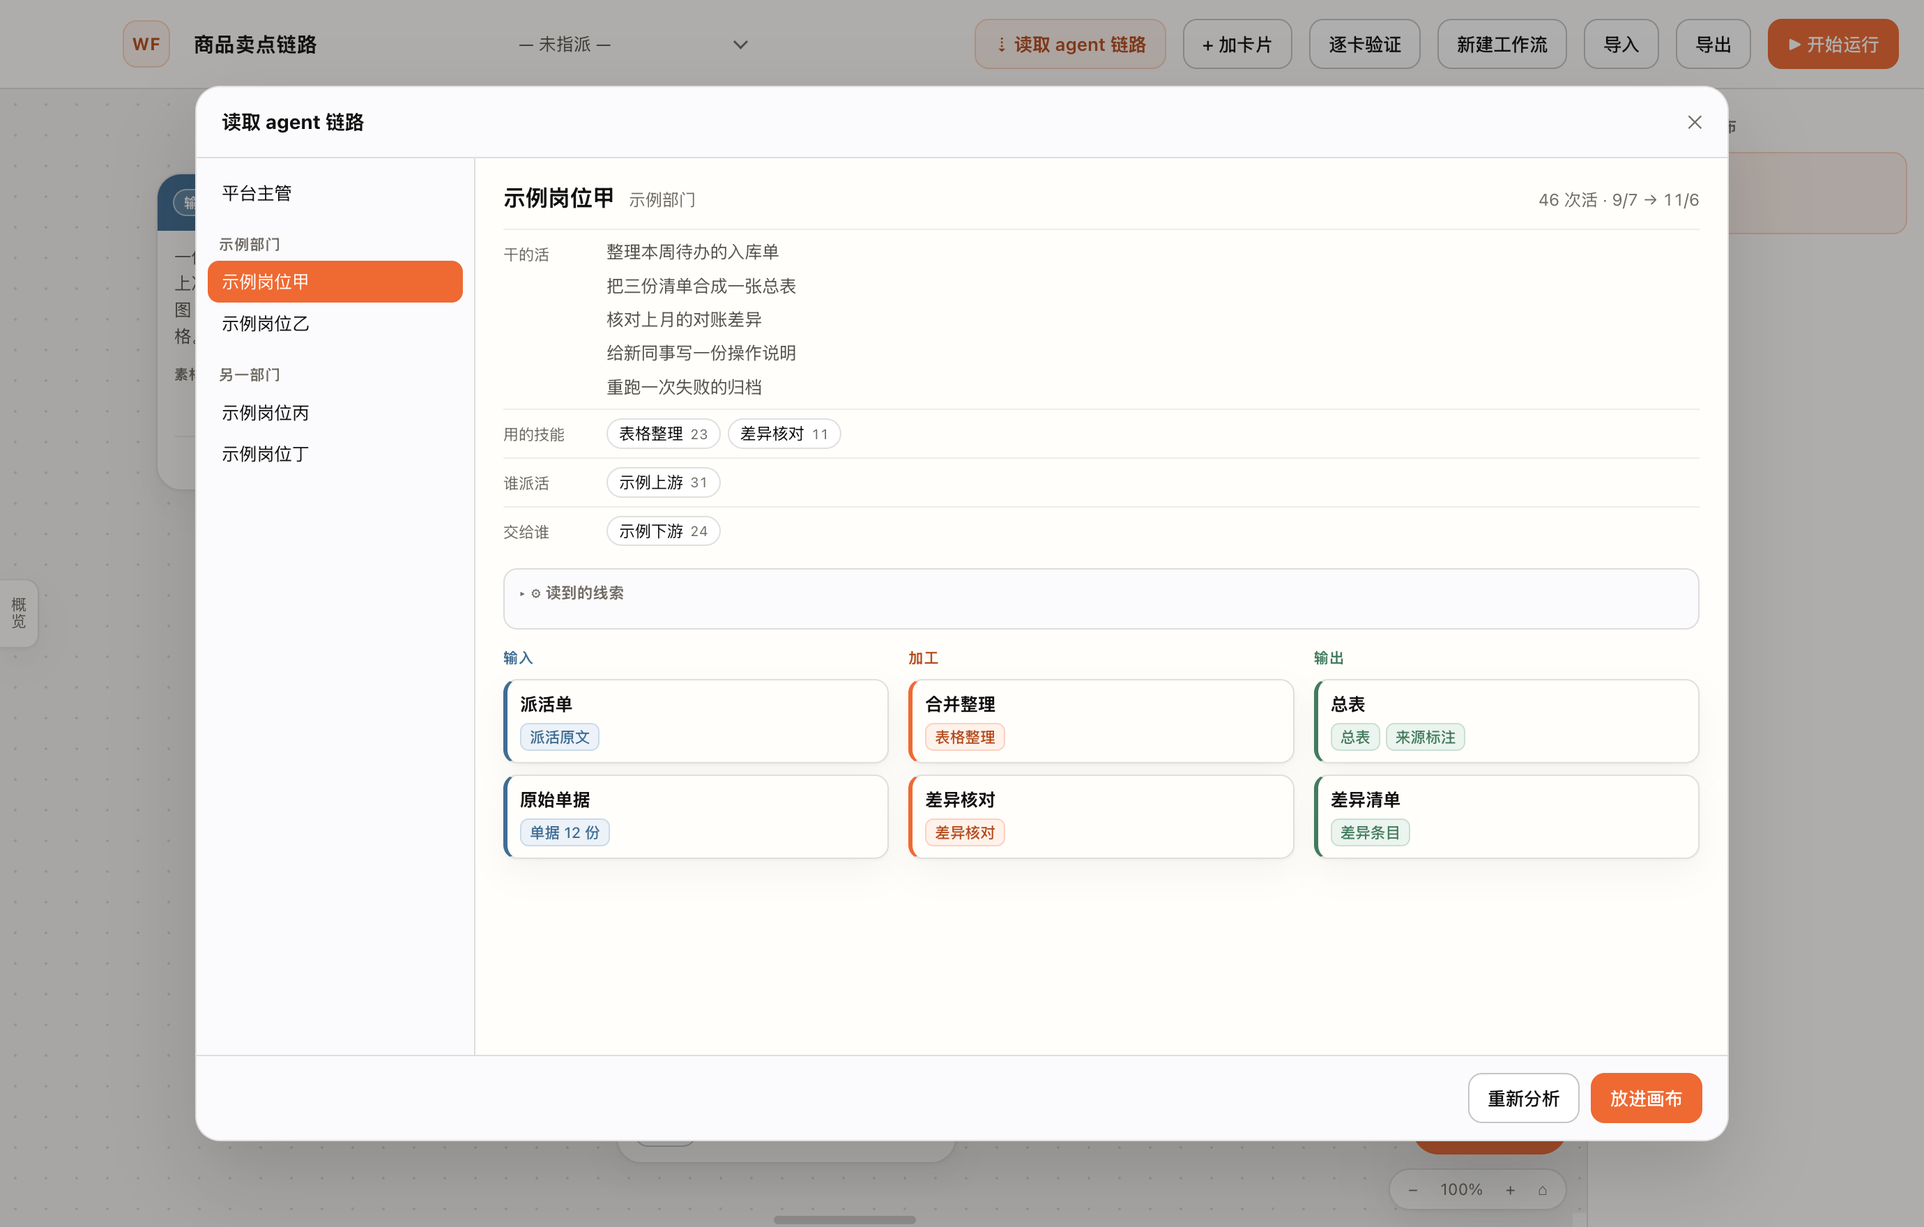
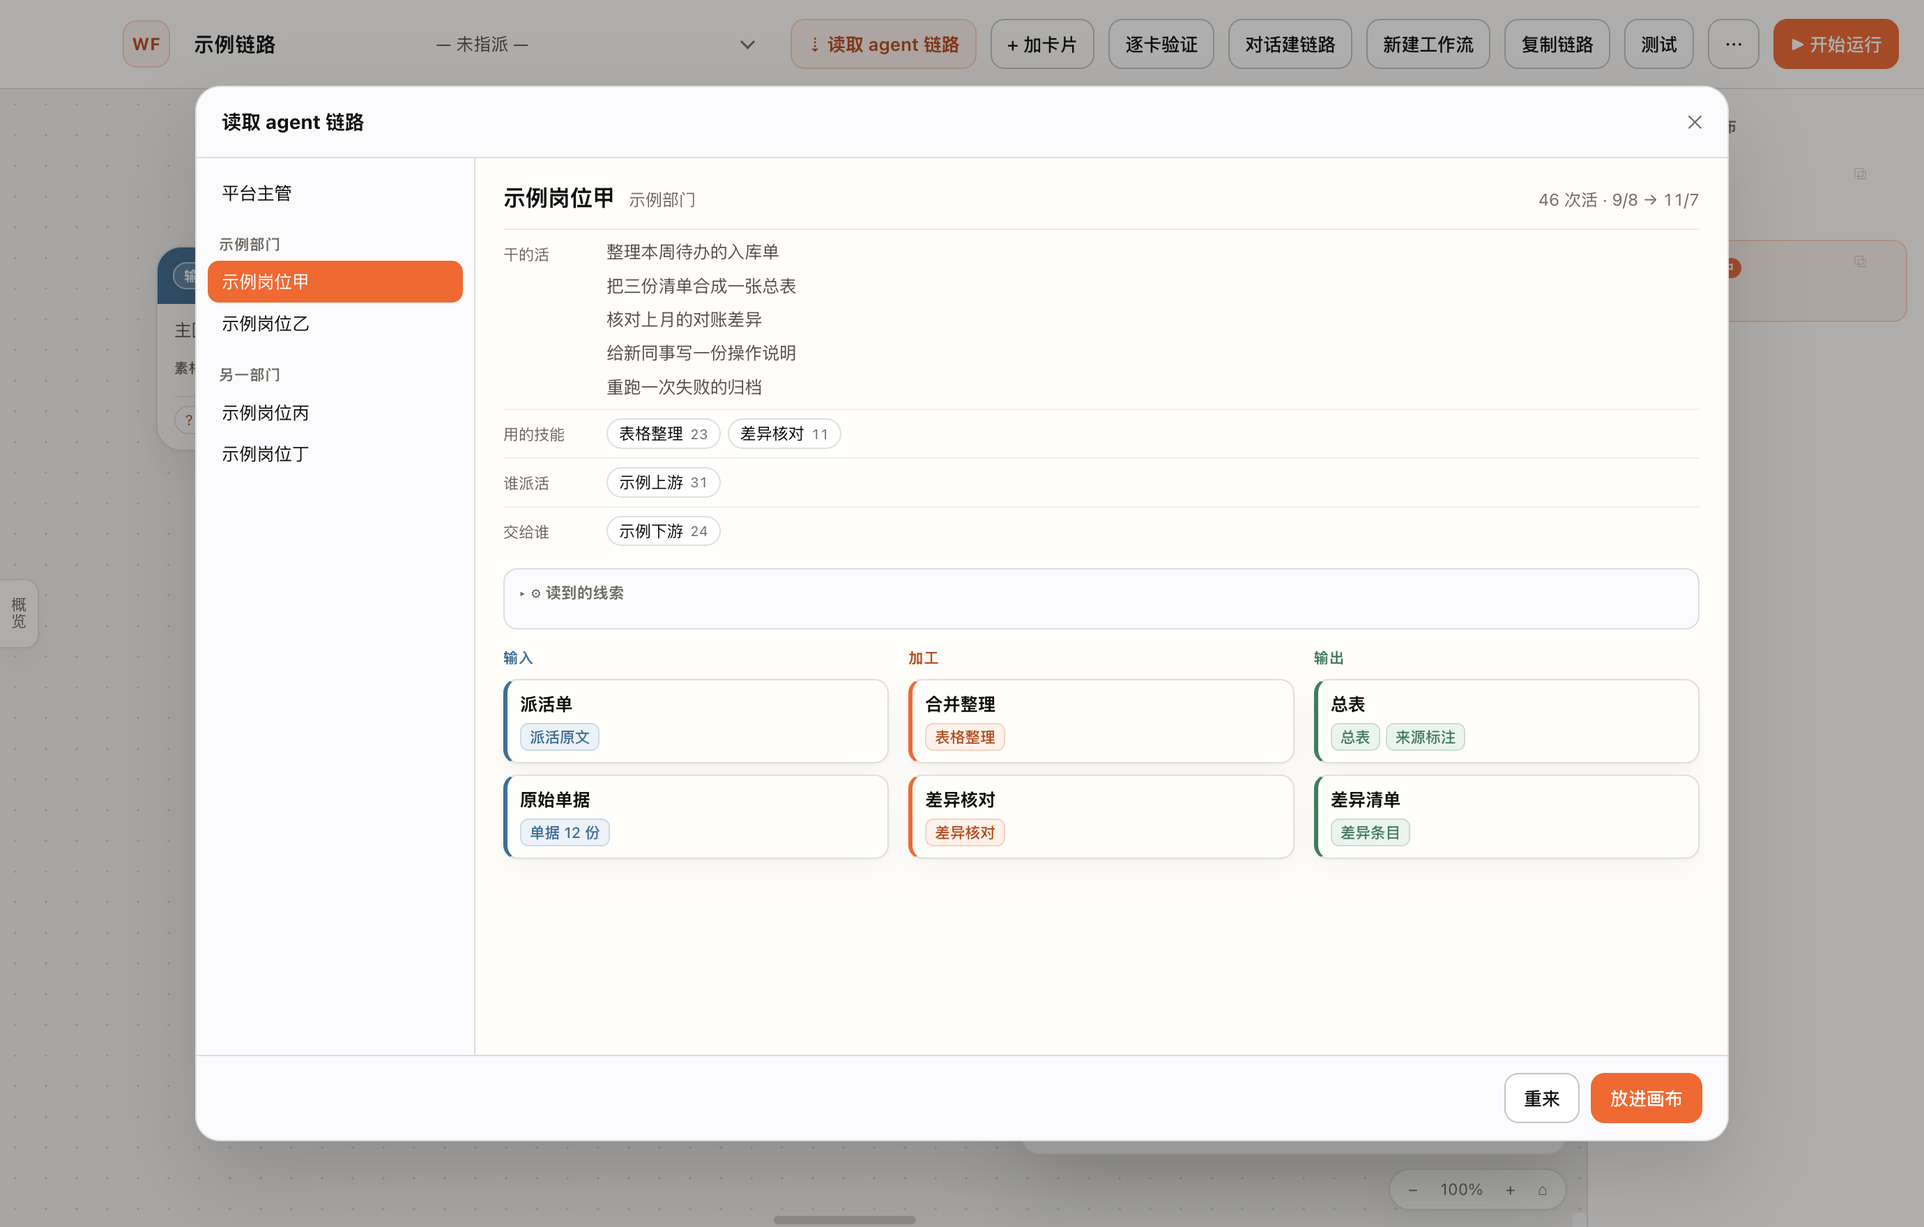
窄窗顶栏收进 ⋯：最小 1000 下「开始运行」不再被切掉；三张文档图按当前界面重截
- renderer：initTopbarFold/fitTopbar —— 启动与 resize 时量一次，放不下的次要按钮
  （测试 / 复制链路 / 逐卡验证 / 对话建链路 / 读取链路）搬进 ⋯ 菜单，窗口变宽按原位插回；
  只搬 DOM、不移交事件；判定同时看 scrollWidth 与最右控件是否顶进右内边距。
  默认 1380 下一件都不收，观感不变。
- style：菜单里的按钮按条目样式显示，加分隔线。
- cdp-copy.js：新增 topbar-min-width（1000 视口模拟）/ topbar-fold-click（真鼠标点菜单里的测试）/
  topbar-restore 三条；原 1380 的 topbar-no-overlap 不动。
- tools/docshots.js：一条命令重截 docs/read.png、docs/versions.png（中性示例、跑完重载页面）。
- docs：read.png / versions.png 换成当前顶栏与当前版式；dock.gif 按当前卡片底部重录（药丸不再被裁）。
- CHANGELOG / SKILL.md 记上窄窗规则与文档图的重截方法。

diff --git a/tools/docshots.js b/tools/docshots.js
@@ -1,0 +1,148 @@
+// 重截 docs/read.png 与 docs/versions.png（界面改了之后跑一次，README 里的路径不变）
+//
+//   export CDP_PORT=9333                       # 指到自己起的隔离实例，别连 9222（用户正在用的窗口）
+//   ./node_modules/.bin/electron . --remote-debugging-port=$CDP_PORT --user-data-dir=$TMPDIR/wf-$CDP_PORT &
+//   node tools/docshots.js                     # 两张都重截
+//   node tools/docshots.js --only read         # 只截一张
+//
+// 截的是 1380×880 的窗口（main.js 里默认尺寸），Retina 上存下来是 2760×1760，和之前那几张一致。
+// 图里出现的都是中性示例（示例部门 / 示例岗位甲–丁 / 示例商品），不含本机路径、真实岗位名或其他项目字样；
+// 版本列表是这边真做出来的改动（改正文 / 改模块 / 加卡连线），不是贴上去的假数据。
+// 跑完会重载页面，注入的示例状态不会留在窗口里。
+const fs = require('fs');
+const path = require('path');
+const http = require('http');
+
+const PORT = Number(process.env.CDP_PORT || 9222);
+const DOCS = path.join(__dirname, '..', 'docs');
+const argv = process.argv.slice(2);
+const ONLY = (() => { const i = argv.indexOf('--only'); return i >= 0 ? argv[i + 1] : ''; })();
+const wait = ms => new Promise(r => setTimeout(r, ms));
+
+const NEUTRAL_AGENTS = [
+  { id: 'demo-1', name: '示例岗位甲', section: '示例部门', desc: '整理入库单、核对对账差异' },
+  { id: 'demo-2', name: '示例岗位乙', section: '示例部门', desc: '把零散清单合并成一张总表' },
+  { id: 'demo-3', name: '示例岗位丙', section: '另一部门', desc: '写操作说明、重跑失败的归档' },
+  { id: 'demo-4', name: '示例岗位丁', section: '另一部门', desc: '把交付归档到资料库' },
+];
+
+// 版本图：一条四张卡的示例链路 + 五次真改动（改正文两处、改模块一处、加卡连线一处 → v1…v5）
+const BUILD_VERSIONS = (neutral) => `(async () => {
+  const sleep = ms => new Promise(r => setTimeout(r, ms));
+  agents = ${JSON.stringify(neutral)};
+  const uid2 = () => 'd' + Math.random().toString(36).slice(2, 8);
+  // 上一次截图留下的「示例链路」先清掉，重跑出来的图才一样（不叠两条同名链路）
+  for (const old of store.workflows.filter(x => x.name === '示例链路')) {
+    store.workflows = store.workflows.filter(x => x.id !== old.id);
+    if (store.current === old.id) store.current = store.workflows[0].id;
+    delete VER.list[old.id]; delete VER.sig[old.id]; delete VER.paths[old.id];
+    try { window.tcflow.versionDrop(old.id); } catch (e) { }
+    try { window.tcflow.linkDrop(old.id); } catch (e) { }
+  }
+  saveStore(false);
+  const w = { id: 'w' + Date.now().toString(36), name: '示例链路', agent: '', nodes: [], edges: [], chat: [], version: 1, updated_at: Date.now() };
+  const mk = (kind, title, body, mods, x, y) => {
+    const n = { id: uid2(), kind, title, body, impl: '', mods: mods.map(m => ({ id: uid2(), type: m[0], name: m[1] })),
+      checks: [], chat: [], status: 'idle', x, y };
+    w.nodes.push(n); return n;
+  };
+  const a = mk('in', '素材包', '主图 5 张 + 页面标题、价格、规格', [['mat', '主图'], ['mat', '页面字段']], 0, 60);
+  const b = mk('proc', '挑卖点', '按同类商品比，挑 3 条卖点，再列 3 条绝对不能写的话', [['tool', '比同类'], ['tool', '挑卖点']], 330, 60);
+  const c = mk('out', '卖卡文案', '交一张卖点卡：每条卖点写了什么、用了哪张图', [['res', '清单']], 660, 60);
+  w.edges.push([a.id, b.id], [b.id, c.id]);
+  store.workflows.push(w); store.current = w.id; selId = null; panelCardId = null;
+  saveStore(); renderWorkflowList(); render();
+  await sleep(500);                                   // v1 新建链路
+  b.body = '按同类商品比，挑 3 条卖点，再列 3 条绝对不能写的话；每条都要说清用的是哪张图。';
+  saveEditing({ commit: true }); await sleep(150);    // v2 改「挑卖点」的正文
+  c.body = '交一张卖点卡：每条卖点写了什么、用了哪张图、能不能直接用。';
+  saveEditing({ commit: true }); await sleep(150);    // v3 改「卖卡文案」的正文
+  a.mods.push({ id: uid2(), type: 'mat', name: '价格区间' });
+  saveEditing({ commit: true }); await sleep(150);    // v4 改「素材包」的模块
+  const d = mk('proc', '写文案', '拿卖点卡写三条投放文案', [['tool', '写文案']], 330, 420);
+  w.edges.push([c.id, d.id]);
+  saveStore(); commitVersions(); render();            // v5 加了「写文案」；加了 1 条连线
+  await sleep(300);
+  panelOpen = true; panelCardId = null; selId = null; zoom = 0.75; dockOpen = false;
+  render(); centerView(); drawEdges(); paintVersionBox(); renderDock();
+  await sleep(300);
+  return { 版本: w.version, 条: (VER.list[w.id] || []).map(e => 'v' + e.v + ' ' + e.what), 卡: w.nodes.length, 线: w.edges.length };
+})()`;
+
+// 读取图：读取窗里一份中性示例（示例岗位甲）+ 拆好的六张卡预览，不真调 agent
+const BUILD_READ = (neutral) => `(async () => {
+  agents = ${JSON.stringify(neutral)};
+  const now = Math.floor(Date.now() / 1000), day = 86400;
+  rd.pick = 'demo-1'; rd.busy = false; rd.error = '';
+  rd.chain = {
+    ok: true, id: 'demo-1', name: '示例岗位甲', section: '示例部门', desc: '整理入库单、核对对账差异', soul: '',
+    stats: { sessions: 46, first: now - day * 60, last: now, toolCalls: 210, readSessions: 80, readLimit: 80,
+      bySource: { kanban: 40, oneshot: 6 } },
+    skills: [{ name: 'table-merge', title: '表格整理', used: 23 }, { name: 'diff-check', title: '差异核对', used: 11 }],
+    upstream: [{ name: '示例上游', count: 31 }], downstream: [{ name: '示例下游', count: 24 }],
+    tasks: [{ title: '整理本周待办的入库单' }, { title: '把三份清单合成一张总表' }, { title: '核对上月的对账差异' },
+      { title: '给新同事写一份操作说明' }, { title: '重跑一次失败的归档' }],
+    reads: [['素材库/单据', 12], ['台账/差异', 9]], writes: [['交付/总表', 8]],
+    tools: [['todo_list', 40], ['read_file', 30]],
+  };
+  rd.plan = parseChainPlan(JSON.stringify({
+    cards: [
+      { key: 'c1', kind: 'in', title: '派活单', body: '这次要整理哪些单据、交到哪天。', mods: ['派活原文'] },
+      { key: 'c2', kind: 'in', title: '原始单据', body: '库里这批还没整理的单据。', mods: ['单据 12 份'] },
+      { key: 'c3', kind: 'proc', title: '合并整理', body: '把三份清单合成一张总表，标出来源。', mods: ['表格整理'] },
+      { key: 'c4', kind: 'proc', title: '差异核对', body: '逐条核对上月差异，写成差异条目。', mods: ['差异核对'] },
+      { key: 'c5', kind: 'out', title: '总表', body: '一张总表，每行标出来源。', mods: ['总表', '来源标注'] },
+      { key: 'c6', kind: 'out', title: '差异清单', body: '差异条目逐条列清。', mods: ['差异条目'] },
+    ],
+    edges: [['c1', 'c3'], ['c2', 'c3'], ['c3', 'c4'], ['c3', 'c5'], ['c4', 'c6']],
+  }));
+  openRead(); paintRead();
+  await new Promise(r => setTimeout(r, 400));
+  return { 预览卡: document.querySelectorAll('#rPrev .rtile').length, 计划: !!rd.plan };
+})()`;
+
+(async () => {
+  const t = (await new Promise((res, rej) => http.get(`http://127.0.0.1:${PORT}/json/list`, r => {
+    let b = ''; r.on('data', d => b += d); r.on('end', () => res(JSON.parse(b)));
+  }).on('error', rej))).find(x => x.type === 'page');
+  if (!t) { console.error('no page on ' + PORT + ' — 先起隔离实例（见 skills/workflow-studio/SKILL.md）'); process.exit(1); }
+  const ws = new WebSocket(t.webSocketDebuggerUrl);
+  let id = 0; const pending = new Map();
+  const send = (m, q = {}) => new Promise(r => { const i = ++id; pending.set(i, r); ws.send(JSON.stringify({ id: i, method: m, params: q })); });
+  ws.addEventListener('message', e => { const m = JSON.parse(e.data); if (m.id && pending.has(m.id)) { pending.get(m.id)(m.result); pending.delete(m.id); } });
+  await new Promise(r => ws.addEventListener('open', r));
+  await send('Page.enable');
+
+  const ev = async (expr) => {
+    const r = await send('Runtime.evaluate', { expression: expr, awaitPromise: true, returnByValue: true });
+    if (!r) return undefined;
+    if (r.exceptionDetails) throw new Error(String((r.exceptionDetails.exception || {}).description || r.exceptionDetails.text).split('\n').slice(0, 4).join(' | '));
+    return r.result ? r.result.value : undefined;
+  };
+  const reload = async () => { await send('Page.reload', { ignoreCache: true }); await wait(4200); };
+  const shot = async (name) => {
+    const s = await send('Page.captureScreenshot', { format: 'png', captureBeyondViewport: false });
+    const out = path.join(DOCS, name);
+    fs.writeFileSync(out, Buffer.from(s.data, 'base64'));
+    const info = await ev(`JSON.stringify({ w: innerWidth, h: innerHeight, dpr: devicePixelRatio })`);
+    console.log('shot   ' + out + '  ' + fs.statSync(out).size + ' 字节  ' + info);
+  };
+
+  const size = await ev(`JSON.stringify({ w: innerWidth, h: innerHeight })`);
+  if (!/"w":1380/.test(size)) console.warn('warn   窗口不是 1380 宽（' + size + '）：图会和默认观感不一致');
+
+  if (ONLY !== 'read') {
+    await reload();
+    console.log('versions', JSON.stringify(await ev(BUILD_VERSIONS(NEUTRAL_AGENTS))));
+    await wait(400);
+    await shot('versions.png');
+  }
+  if (ONLY !== 'versions') {
+    await reload();
+    console.log('read    ', JSON.stringify(await ev(BUILD_READ(NEUTRAL_AGENTS))));
+    await wait(400);
+    await shot('read.png');
+  }
+  await reload();                                    // 把注入的示例状态清掉
+  ws.close(); process.exit(0);
+})().catch(e => { console.error('ERR', e.message); process.exit(1); });

diff --git a/skills/workflow-studio/scripts/cdp-copy.js b/skills/workflow-studio/scripts/cdp-copy.js
@@ -72,6 +72,38 @@ const ok = (name, pass, info) => {
   })()`);
   ok('topbar-no-overlap', !!bar && bar.重叠 === 0 && bar.中点命中 === 'flowName' && bar.名字宽 >= 110 && bar.运行钮右 <= bar.窗口宽 - 8, bar);
 
+  // 应用允许的最小宽度（main.js 的 minWidth 1000）：顶栏不许把控件切出窗，「开始运行」必须点得到。
+  // 用 CDP 视口模拟来量（不动真窗口，也就不依赖 System Events 权限）；量完清掉，后面照常按 1380 跑。
+  const barBox = `(() => {
+    const bar = document.querySelector('.topbar');
+    const box = bar.getBoundingClientRect();
+    const limit = box.right - parseFloat(getComputedStyle(bar).paddingRight || 0);
+    let right = 0; for (const el of bar.children) { const r = el.getBoundingClientRect(); if (r.width > 0) right = Math.max(right, r.right); }
+    const run = document.querySelector('#btnRun').getBoundingClientRect();
+    const hit = document.elementFromPoint(run.left + run.width / 2, run.top + run.height / 2);
+    return { 窗口宽: innerWidth, 顶栏内容宽: bar.scrollWidth, 顶栏可见宽: bar.clientWidth,
+      最右控件右: Math.round(right), 可用右界: Math.round(limit), 运行钮右: Math.round(run.right),
+      中点命中: hit && (hit.id || hit.className),
+      收进菜单: [...document.querySelectorAll('#moreMenu button')].map(b => b.textContent.trim()) };
+  })()`;
+  await send('Emulation.setDeviceMetricsOverride', { width: 1000, height: 880, deviceScaleFactor: 1, mobile: false });
+  await wait(450);
+  const narrow = await ev(barBox);
+  ok('topbar-min-width', !!narrow && narrow.顶栏内容宽 <= narrow.顶栏可见宽 && narrow.最右控件右 <= narrow.可用右界 &&
+    narrow.运行钮右 <= narrow.窗口宽 - 8 && narrow.中点命中 === 'btnRun' && narrow.收进菜单.length >= 1, narrow);
+  // 收进 ⋯ 的入口得真能用：真鼠标点开菜单、点第一项（测试），测试窗要开
+  await clickAt('#btnMore');
+  await wait(300);
+  await clickAt('#moreMenu button');
+  await wait(500);
+  const folded = await ev(`(() => ({ 测试窗: document.querySelector('#testModal').classList.contains('on'), 菜单开着: document.querySelector('#moreMenu').classList.contains('on') }))()`);
+  ok('topbar-fold-click', !!folded && folded.测试窗, folded);
+  await ev(`(() => { closeTest(); document.querySelector('#moreMenu').classList.remove('on'); return 1; })()`);
+  await send('Emulation.clearDeviceMetricsOverride');
+  await wait(400);
+  const restored = await ev(barBox);
+  ok('topbar-restore', !!restored && restored.最右控件右 <= restored.可用右界 && restored.运行钮右 <= restored.窗口宽 - 8, restored);
+
   // ---------- 1 造一条有内容的链路（3 卡 + 2 线 + 模块 + 执行方） ----------
   const src = await ev(`(() => {
     const w = createWorkflow('复制链路 · 原件');

diff --git a/renderer/app.js b/renderer/app.js
@@ -137,6 +137,48 @@ function bindUI() {
   $('#zoomOut').onclick = () => { zoom = Math.max(0.3, zoom - 0.1); applyZoom(); drawEdges(); };
   $('#zoomReset').onclick = () => { zoom = 1; applyZoom(); drawEdges(); };
   bindPanZoom();
+  initTopbarFold();
+}
+
+// ---------- 顶栏收纳：窗口窄到一排放不下时，把次要按钮搬进 ⋯ 菜单 ----------
+// 应用允许的最小宽度是 1000（main.js 的 minWidth）。默认 1380 下一件都不收，观感和以前完全一样；
+// 窗口拉窄就先收最不常用的，保证「开始运行」永远在窗内可点。
+// 只搬 DOM 节点、不移交事件：onclick 跟着元素走，顶栏和菜单里用的是同一套处理函数。
+const TOP_FOLD = ['btnTest', 'btnCopy', 'btnValidate', 'btnTempChat', 'btnRead'];   // 从最不常用的开始收
+let topFold = null;
+function initTopbarFold() {
+  const bar = document.querySelector('.topbar');
+  if (!bar || topFold) return;
+  topFold = TOP_FOLD.map(id => document.getElementById(id)).filter(Boolean).map(el => {
+    const slot = document.createComment('顶栏原位 ' + el.id);    // 搬走后原位记着，窗口变宽按原位插回
+    el.parentNode.insertBefore(slot, el);
+    return { el, slot };
+  });
+  addEventListener('resize', fitTopbar);
+  fitTopbar();
+  setTimeout(fitTopbar, 120);          // 首帧字体/布局稳定后再量一次，免得量到中间态
+}
+function fitTopbar() {
+  const bar = document.querySelector('.topbar'), menu = $('#moreMenu');
+  if (!bar || !menu || !topFold) return;
+  for (const { el, slot } of topFold) if (el.parentNode !== slot.parentNode) slot.parentNode.insertBefore(el, slot);
+  const msep = menu.querySelector('.msep');
+  // 放不下的判定要看两处：内容宽超了（scrollWidth），或者最后一个控件顶进了右内边距
+  // （scrollWidth 只看 padding box，顶进 padding 的那几个像素它看不见，只量 scrollWidth 会漏）。
+  const tooWide = () => {
+    if (bar.scrollWidth > bar.clientWidth + 1) return true;
+    const box = bar.getBoundingClientRect();
+    const limit = box.right - parseFloat(getComputedStyle(bar).paddingRight || 0);
+    let right = 0;
+    for (const el of bar.children) { const r = el.getBoundingClientRect(); if (r.width > 0) right = Math.max(right, r.right); }
+    return right > limit + 0.5;
+  };
+  let n = 0;
+  while (tooWide() && n < topFold.length) {
+    const { el } = topFold[n++];
+    if (msep) menu.insertBefore(el, msep); else menu.appendChild(el);   // 收进菜单：排在 导入/导出 上面
+  }
+  if (n !== (bar.__foldN || 0)) { bar.__foldN = n; menu.classList.remove('on'); }
 }
 
 // ---------- 画板拖动 / 缩放 ----------

diff --git a/renderer/style.css b/renderer/style.css
@@ -178,6 +178,13 @@ svg#edges{position:absolute;inset:0;width:100%;height:100%;pointer-events:none}
 .menu.on{display:block}
 .menu div{padding:7px 10px;border-radius:7px;font-size:12.5px;cursor:pointer;white-space:nowrap}
 .menu div:hover{background:var(--card);color:var(--accent-ink)}
+/* 窄窗口时从顶栏搬进来的按钮：在菜单里按条目样式显示（不再是胶囊按钮） */
+.menu button{width:100%;justify-content:flex-start;border:none;background:transparent;border-radius:7px;
+  padding:7px 10px;font-size:12.5px;font-weight:400;color:var(--ink);text-align:left}
+.menu button:hover{background:var(--card);border-color:transparent;color:var(--accent-ink)}
+.menu .msep{height:1px;margin:5px 2px;padding:0;background:var(--soft-line);cursor:default}
+.menu .msep:hover{background:var(--soft-line)}
+.menu .msep:first-child{display:none}
 
 /* agent 选项卡片 */
 .optlabel{font-size:11.5px;color:var(--ink-3);margin:10px 0 6px}

diff --git a/renderer/index.html b/renderer/index.html
@@ -35,6 +35,8 @@
     <div class="menu-wrap">
       <button id="btnMore" class="ghost" title="导入 / 导出链路文件">⋯</button>
       <div class="menu" id="moreMenu">
+        <!-- 窄窗口时，顶栏放不下的按钮收在这里（JS 按宽度搬进来，宽窗口仍在顶栏） -->
+        <div class="msep"></div>
         <div id="btnOpen">导入</div>
         <div id="btnSave">导出</div>
       </div>

diff --git a/CHANGELOG.md b/CHANGELOG.md
@@ -13,7 +13,7 @@
 - **复制一条链路来试**：副本是独立的一份，改哪边都不影响另一边；右栏标出当前选中的那条，关窗重开还记得。
 - **测试先做两件事**：本机静态体检（断链、缺输入缺产出、空卡、绕圈、被拆成两截，逐条写怎么补）；只读预演（执行方按卡片顺序说会怎么做、缺什么，全程零工具，不跑命令、不写文件、不发消息、不花钱）。
 - **卡片正面只说人话**：用哪些图、哪些数据、怎么加工、交出什么文件，具体可执行；命令、脚本、路径、字段名收进「⚙ 内部实现」，卡片正面不显示。
-- **整修**：卡片底部带校验徽标的卡不再把「↗ 连线」按钮挤出边框；示例内容与公开文档里的历史字段名换成了中性说法。
+- **整修**：卡片底部带校验徽标的卡不再把「↗ 连线」按钮挤出边框；示例内容与公开文档里的历史字段名换成了中性说法；窗口拉到最窄时顶栏一排放不下，会把测试、复制、逐卡验证、对话建链路、读取链路先收进「⋯」，**「开始运行」永远在窗内可点**。
 
 ## v0.3.0
 
